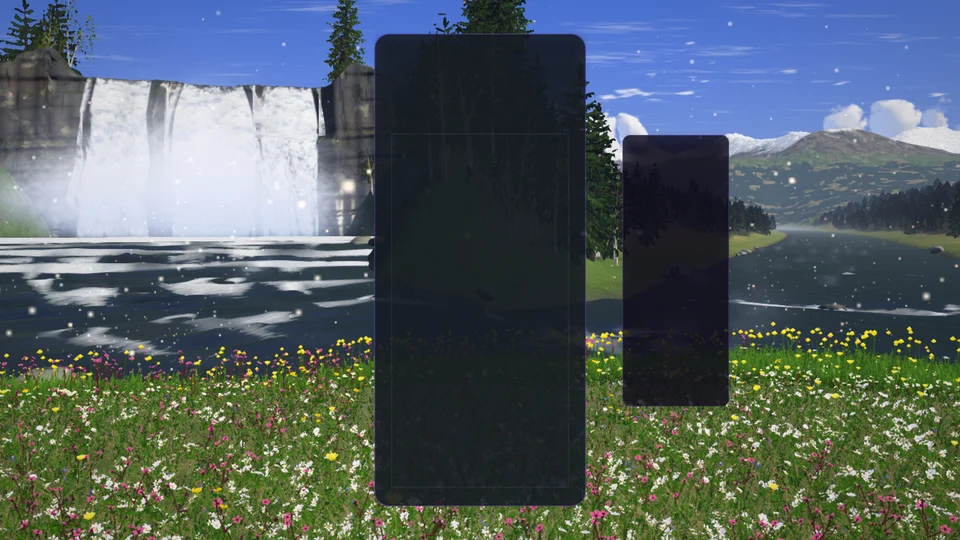
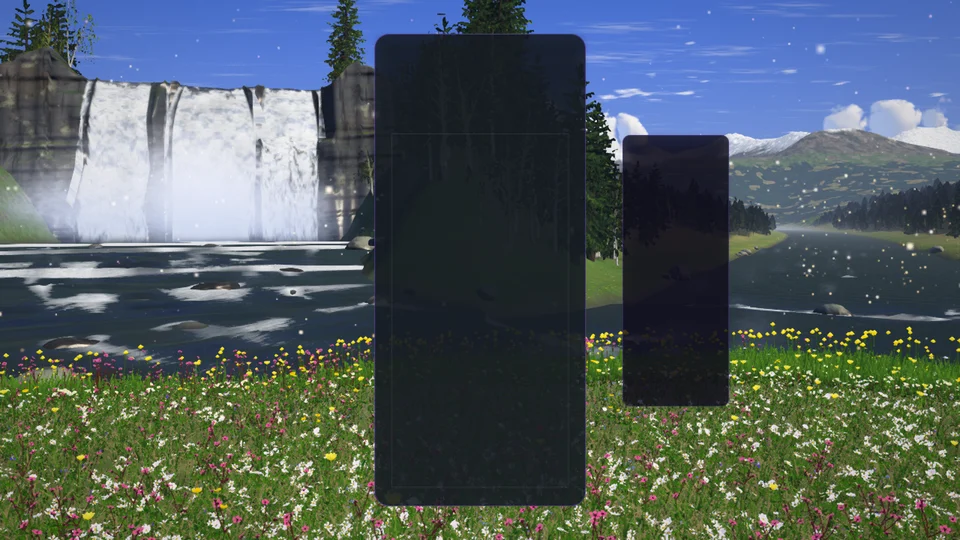
Spring docs: the air's chain capture with its whirlwind, and a close-up
Claude-Session: https://claude.ai/code/session_01CUcYTDkYsbZdwwNVxS4yp4

diff --git a/docs/SPRING_VISUAL_OVERHAUL_2026-10.md b/docs/SPRING_VISUAL_OVERHAUL_2026-10.md
@@ -366,8 +366,10 @@ no validation errors or console warnings in any.
 | Golden evening: the air against the sun | A hard drop of the S: its blue pollen |
 |---|---|
 | ![air in the evening](spring-captures/air-evening.webp) | ![hard drop](spring-captures/air-drop.webp) |
-| **A chain of six, with the board** | **Three lines: the breath and the lanes** |
-| ![chain](spring-captures/air-chain.webp) | ![clear](spring-captures/air-clear.webp) |
+| **A chain of three, with the board: the third link's whirlwind right of the HUD** | **That whirlwind, at two seconds** |
+| ![chain](spring-captures/air-chain.webp) | ![whirlwind](spring-captures/air-whirl.webp) |
+| **Three lines: the breath and the lanes** | |
+| ![clear](spring-captures/air-clear.webp) | |
 
 **Cost.** Two draws: the air (2,400 quads at Extreme, 9,600 vertices, each a handful of hashes,
 an eight-step loop over the patch rows and the haze; no texture reads) and the ring (2,304 quads,
